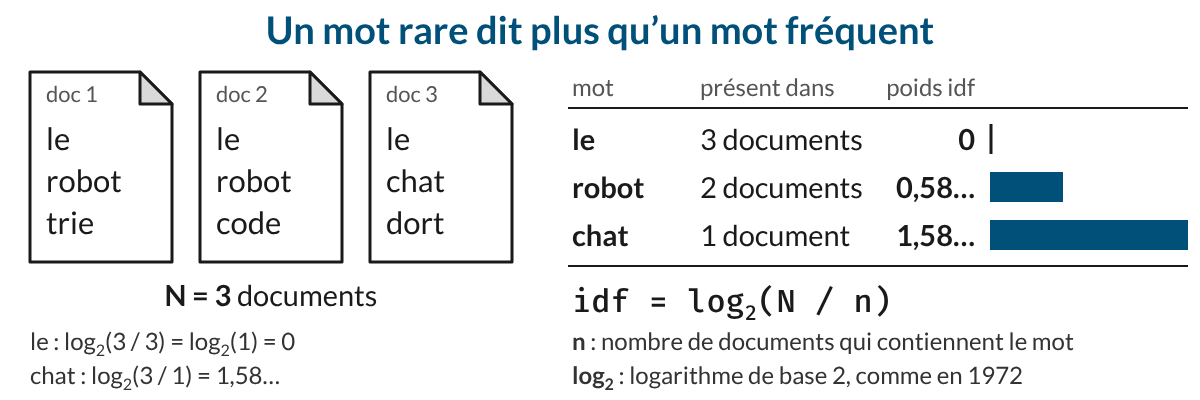
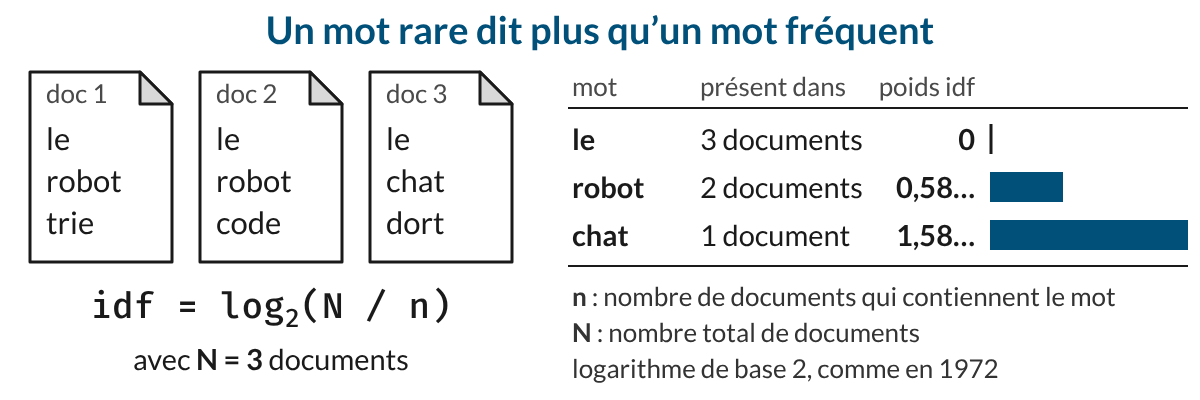
[T10g][atelier] Schémas : textes d’au moins 7 pt imprimés
Plus petit texte des 8 schémas : 26 px, soit 7,2 à 7,3 pt mesurés sur les
cartes (avant : de 4,5 à 7,0 pt). 72 : exemples de calcul retirés, formule
agrandie, légende sans indice ; 84 redessiné au format 1200 x 350 ;
mentions secondaires raccourcies (sources de 75, pied de 78 et 82). L’export
signale un texte de moins de 26 px ; règle ajoutée au README, avec le lien
« agrandir » du site.

Claude-Session: https://claude.ai/code/session_019Pv5zTB2kgpC2pDL7b7Up4

diff --git a/outils/schemas/exporter.js b/outils/schemas/exporter.js
@@ -4,7 +4,8 @@
 //   node outils/schemas/exporter.js 72 75      seulement ceux-là
 //
 // Chaque outils/schemas/<n>.svg devient images/<n>.png, à la taille du viewBox du SVG
-// (1200 px de large). Le rendu est fait par Chrome (Puppeteer, déjà installé par npm ci),
+// (1200 px de large). Le script signale un texte de moins de 26 px : imprimé dans la zone
+// d'image d'une carte (environ 12 cm de large), il ferait moins de 7 pt. Le rendu est fait par Chrome (Puppeteer, déjà installé par npm ci),
 // avec les polices hébergées dans assets/fonts/ : le script s'arrête si l'une manque.
 // Hors ligne : seules les ressources locales sont chargées.
 
@@ -14,6 +15,7 @@ const { pathToFileURL } = require('url');
 const puppeteer = require('puppeteer');
 
 const ICI = __dirname;
+const TEXTE_MIN = 26; // px, pour un SVG de 1200 px de large
 const IMAGES = path.join(ICI, '..', '..', 'images');
 
 async function main() {
@@ -43,10 +45,15 @@ async function main() {
                 return faces.length ? faces.filter(f => f.status !== 'loaded').map(f => `${f.family} ${f.weight}`) : ['aucune police déclarée'];
             });
             if (manquantes.length) throw new Error(`${nom} : polices non chargées (${manquantes.join(', ')})`);
+            // Plus petit texte du schéma : 26 px au moins (environ 7 pt imprimés dans la zone d'image d'une carte).
+            const plusPetit = await page.evaluate(() => Math.min(...[...document.querySelectorAll('text, tspan')]
+                .filter(el => [...el.childNodes].some(c => c.nodeType === 3 && c.textContent.trim()))
+                .map(el => parseFloat(getComputedStyle(el).fontSize))));
             const sortie = path.join(IMAGES, nom.replace('.svg', '.png'));
             await page.screenshot({ path: sortie, clip: { x: 0, y: 0, width: largeur, height: hauteur } });
             await page.close();
-            console.log(`${nom} -> images/${path.basename(sortie)} (${largeur} x ${hauteur} px, ${Math.round(fs.statSync(sortie).size / 1024)} ko)`);
+            console.log(`${nom} -> images/${path.basename(sortie)} (${largeur} x ${hauteur} px, ${Math.round(fs.statSync(sortie).size / 1024)} ko, plus petit texte ${plusPetit} px)`);
+            if (plusPetit < TEXTE_MIN) console.warn(`   attention : texte de ${plusPetit} px, moins de ${TEXTE_MIN} px (7 pt sur la carte)`);
         }
     } finally {
         await browser.close();

diff --git a/README.md b/README.md
@@ -9,6 +9,7 @@ Sur le site, on peut :
 - chercher un événement (la recherche ignore les accents et les majuscules) ;
 - filtrer par catégorie, période, sous-période et plage de dates ;
 - télécharger la carte PDF de chaque événement, ou le PDF complet (une carte par page).
+- agrandir l’image d’un événement : elle s’ouvre en taille réelle dans un nouvel onglet (utile sur téléphone pour lire un schéma).
 
 ## Ce que contient le dépôt
 
@@ -54,7 +55,7 @@ Une nouvelle catégorie demande aussi une couleur et une icône : `src/config.js
 Pour ajouter une image : déposez `images/<n>.jpg` (ou `.png`) et ajoutez sa ligne dans `data/images.csv`. Sans fichier, la carte n’a pas d’image ; sans ligne, pas de crédit. L’image est toujours affichée entière, sur un fond pâle de la couleur de la catégorie, et son crédit apparaît sous la forme « Image : auteur, licence, Wikimedia Commons ». La génération et la publication s’arrêtent si une image citée dans `data/images.csv` est introuvable.
 
 - **Taille des images** : la zone d’image d’une carte mesure au plus 119 × 64 mm environ. Une image de 1000 × 750 px au plus suffit (au moins 213 ppp sur toute la largeur) : au-delà, le PDF s’alourdit sans gain visible à l’impression. L’outil `outils/images/telecharger.py` réduit les images de Commons à ce cadre.
-- **Schéma original** : la source SVG va dans `outils/schemas/<n>.svg`, avec les polices de `assets/fonts/`, et `node outils/schemas/exporter.js <n>` l’exporte en `images/<n>.png`. Dans `data/images.csv`, sa ligne a une colonne `page_commons` vide : le crédit devient « Schéma : auteur, licence ». Le texte du schéma doit rester lisible imprimé en noir et blanc, à la taille de la zone d’image (environ 12 × 3,5 cm sur les cartes au texte long).
+- **Schéma original** : la source SVG va dans `outils/schemas/<n>.svg`, avec les polices de `assets/fonts/`, et `node outils/schemas/exporter.js <n>` l’exporte en `images/<n>.png`. Dans `data/images.csv`, sa ligne a une colonne `page_commons` vide : le crédit devient « Schéma : auteur, licence ». Le schéma doit rester lisible imprimé en noir et blanc, à la taille de la zone d’image (environ 12 × 3,5 cm sur les cartes au texte long) : 1200 px de large, un format large (environ 3 pour 1) et aucun texte de moins de 26 px, soit 7 pt imprimés. L’export signale un texte plus petit.
 
 ## Générer les cartes
 
